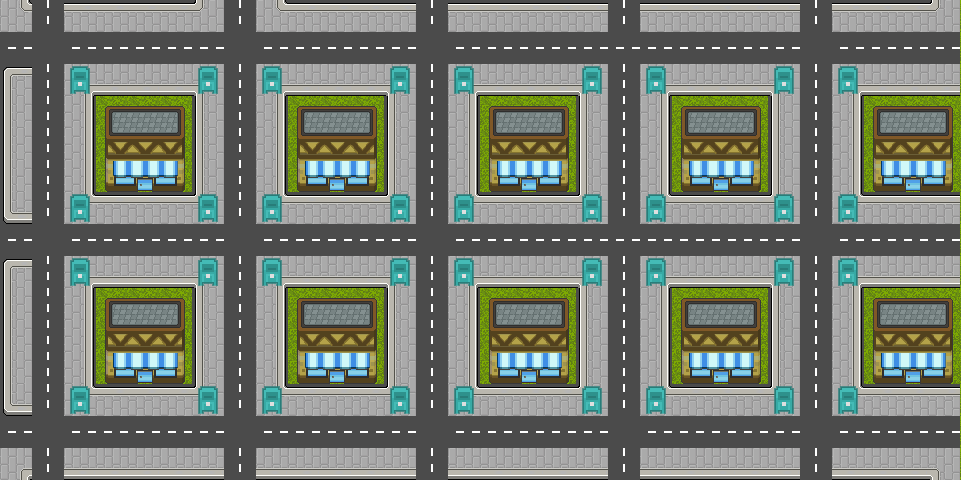
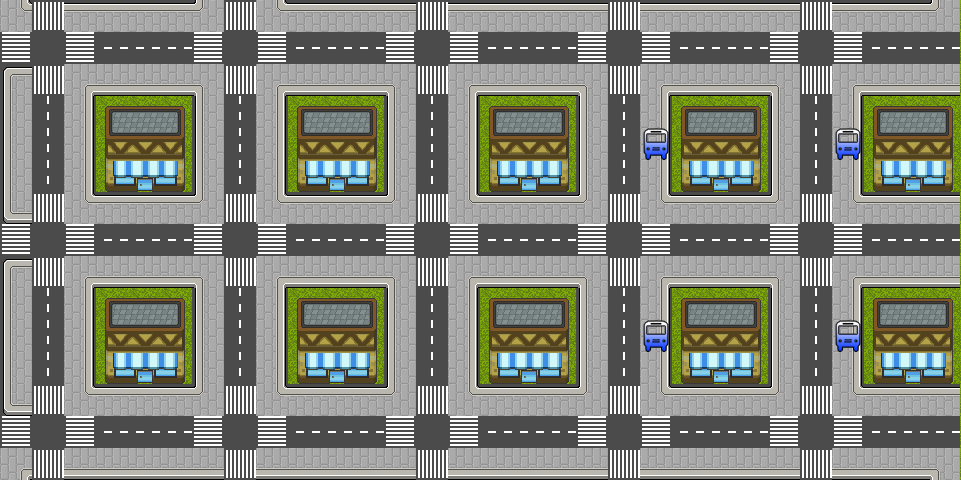
micro reqlo

diff --git a/src/graficos/Micro.java b/src/graficos/Micro.java
@@ -10,7 +10,7 @@ public class Micro extends TimerTask implements Constantes {
     public Laberinto laberinto;
     public Celda auto, celdaMovimiento;
     public Point p1, p2, p3, p4, a, b, c, d;
-    ArrayList<Peaton> peatones = new ArrayList<Peaton>();
+    ArrayList<Peaton> peatones = new ArrayList<>();
 
     public Micro(Laberinto laberinto, Point xp, Point yp) {
         p1 = new Point(xp.x, xp.y);
@@ -26,7 +26,7 @@ public class Micro extends TimerTask implements Constantes {
         celdaMovimiento = new Celda(p1.x, p1.y, laberinto.celdas[p1.x][p1.y].tipoCelda);
         auto = new Celda(p1.x, p1.y, MICRO);
 
-        for (int i = 0; i < NUMPEATONES; i++) {
+        for (int i = 0; i < NPEATONES ; i++) {
             xp.x = xp.x - 1;
             peatones.add(new Peaton(laberinto, xp, yp));
         }
@@ -34,18 +34,15 @@ public class Micro extends TimerTask implements Constantes {
     }
 
     private void moverMicro() {
-        for (int i = 0; i < peatones.size(); i++) {
-            peatones.get(i).moverPeaton();
-        }
         if (celdaMovimiento.x == p2.x && celdaMovimiento.y < p3.y && celdaMovimiento.y >= p2.y) {
             if (noHayPersona(celdaMovimiento.x, celdaMovimiento.y + 1)) {
                 if (esParada(celdaMovimiento.x + 1, celdaMovimiento.y + 1)) {
                     if (peatones.size() <= 0) {
                         System.out.println("TODOS LOS PEATONES HAN SIDO DEJADOS");
                     } else {
-                        laberinto.repaint();
-                        laberinto.lienzoPadre.repaint();
+           
                         JOptionPane.showMessageDialog(null, "Peaton ha sido dejado en la parada");
+                        peatones.get(peatones.size() - 1).serCalle();
                         peatones.remove(peatones.get(peatones.size() - 1));
                     }
                 }
@@ -67,6 +64,7 @@ public class Micro extends TimerTask implements Constantes {
                         System.out.println("TODOS LOS PEATONES HAN SIDO DEJADOS");
                     } else {
                         JOptionPane.showMessageDialog(null, "Peaton ha sido dejado en la parada");
+                            peatones.get(peatones.size() - 1).serCalle();
                         peatones.remove(peatones.get(peatones.size() - 1));
                     }
                 }
@@ -120,6 +118,9 @@ public class Micro extends TimerTask implements Constantes {
         moverMicro();
         laberinto.lienzoPadre.repaint();
         laberinto.lienzoPadre.validate();
+        for (int i = 0; i < peatones.size(); i++) {
+            peatones.get(i).moverPeaton();
+        }
     }
 
     private boolean noHayPersona(int x, int y) {

diff --git a/src/graficos/Vehiculo.java b/src/graficos/Vehiculo.java
@@ -7,35 +7,26 @@ public class Vehiculo extends TimerTask implements Constantes {
 
     public Laberinto laberinto;
     public Celda auto, celdaMovimiento;
-    public Point p1, p2, p3, p4;
+    public int x, y;
 
-    public Vehiculo(Laberinto laberinto, Point xp, Point yp) {
-        p1 = new Point(xp.x, xp.y);
-        p2 = new Point(yp.x, xp.y);
-        p3 = new Point(yp.x, yp.y);
-        p4 = new Point(xp.x, yp.y);
+    public Vehiculo(Laberinto laberinto, int x, int y) {
         this.laberinto = laberinto;
-        celdaMovimiento = new Celda(p1.x, p1.y, laberinto.celdas[p1.x][p1.y].tipoCelda);
-        auto = new Celda(p1.x, p1.y, VEHICULO);
+        celdaMovimiento = new Celda(x, y, laberinto.celdas[x][y].tipoCelda);
+        auto = new Celda(x, y, VEHICULO);
     }
 
     private void moverVehiculo() {
-        if (celdaMovimiento.x == p2.x && celdaMovimiento.y < p3.y && celdaMovimiento.y >= p2.y) {
-            if (noHayPersona(celdaMovimiento.x, celdaMovimiento.y + 1)) {
-                moverAbajo();
-            }
-        } else if (celdaMovimiento.x >= p1.x && celdaMovimiento.y == p1.y && celdaMovimiento.x < p2.x) {
-            if (noHayPersona(celdaMovimiento.x + 1, celdaMovimiento.y)) {
-                moverDerecha();
-            }
-        } else if (celdaMovimiento.x <= p3.x && celdaMovimiento.y == p3.y && celdaMovimiento.x > p4.x) {
+        if (celdaMovimiento.x > 0) {
             if (noHayPersona(celdaMovimiento.x - 1, celdaMovimiento.y)) {
                 moverIzquierda();
             }
-        } else if (celdaMovimiento.x == p4.x && celdaMovimiento.y <= p4.y && celdaMovimiento.y >= p1.y) {
-            if (noHayPersona(celdaMovimiento.x, celdaMovimiento.y - 1)) {
-                moverArriba();
-            }
+        } else if (celdaMovimiento.x <= 0) {
+            char temp = celdaMovimiento.tipoCelda;
+            celdaMovimiento.tipoCelda = laberinto.celdas[celdaMovimiento.x][celdaMovimiento.y].tipoCelda;
+           laberinto.celdas[celdaMovimiento.x][celdaMovimiento.y].tipoCelda = temp;
+            celdaMovimiento.x = this.x;
+            celdaMovimiento.y = this.y;
+            laberinto.celdas[celdaMovimiento.x][celdaMovimiento.y].tipoCelda = VEHICULO;
         }
     }
 

diff --git a/src/graficos/Lienzo.java b/src/graficos/Lienzo.java
@@ -27,19 +27,11 @@ public class Lienzo extends Canvas implements Constantes {
     public Image imagenBuffer;
 
     public Lienzo() {
-        Point p1 = new Point(1, 1);
-        Point p2 = new Point(19, 7);
-
-        Point p3 = new Point(30, 15);
-        Point p4 = new Point(1, 1);
-
-        Point p5 = new Point(2, 1);
-        Point p6 = new Point(20, 10);
         laberinto = new Laberinto(this);
-        auto = new Vehiculo(laberinto, p1, p2);
-        auto2 = new Vehiculo(laberinto, new Point(7, 7), new Point(25, 13));
-        auto3 = new Vehiculo(laberinto, new Point(1, 7), new Point(7, 13));
-        auto4 = new Vehiculo(laberinto, new Point(6, 5), new Point(4, 4));
+//        auto = new Vehiculo(laberinto, 29, 1);
+//        auto2 = new Vehiculo(laberinto, new Point(7, 1), new Point(13, 7));
+//        auto3 = new Vehiculo(laberinto, new Point(1, 13), new Point(7, 1));
+//        auto4 = new Vehiculo(laberinto, new Point(6, 5), new Point(4, 4));
 
         micro = new Micro(laberinto, new Point(19, 1), new Point(25, 13));
         jugador = new Jugador(laberinto);
@@ -59,11 +51,11 @@ public class Lienzo extends Canvas implements Constantes {
             }
         });
         lanzadorTareas = new Timer();
-        lanzadorTareas.scheduleAtFixedRate(auto, 0, 1500);
-        lanzadorTareas.scheduleAtFixedRate(auto2, 0, 1100);
-        lanzadorTareas.scheduleAtFixedRate(auto3, 0, 1300);
-        lanzadorTareas.scheduleAtFixedRate(auto4, 0, 1300);
-    //   lanzadorTareas.scheduleAtFixedRate(micro, 0, 1100);
+    //    lanzadorTareas.scheduleAtFixedRate(auto, 0, 100);
+//        lanzadorTareas.scheduleAtFixedRate(auto2, 0, 100);
+       // lanzadorTareas.scheduleAtFixedRate(auto3, 0, 1300);
+        //lanzadorTareas.scheduleAtFixedRate(auto4, 0, 1300);
+      lanzadorTareas.scheduleAtFixedRate(micro, 0, 1100);
 //        lanzadorTareas.scheduleAtFixedRate(peaton2,0,400);
 
         jugador.inteligencia.buscar(0, 0, 26, 3);

diff --git a/src/graficos/Laberinto.java b/src/graficos/Laberinto.java
@@ -15,7 +15,7 @@ public class Laberinto extends JComponent implements Constantes {
         for (int i = 0; i < N_CELDAS_ANCHO; i++) {
             for (int j = 0; j < N_CELDAS_ALTO; j++) {
                 celdas[i][j] = new Celda(i + (i * TAMANIO_CELDA), j + (j * TAMANIO_CELDA), CAMINO);
-                celdas[i][j].nPeatones = 999;
+          //      celdas[i][j].nPeatones = 999;
             }
         }
         crearEdificio(3, 6, 3, 6);
@@ -60,12 +60,14 @@ public class Laberinto extends JComponent implements Constantes {
             celdas[i][13].tipoCelda = CALLE;
         }
 
-        celdas[20][3].tipoCelda = PORTAL;
-        celdas[20][9].tipoCelda = PORTAL;
+        for (int i = 4; i < 30; i = i + 6) {
+            celdas[i][5].tipoCelda = PORTAL;
+        }
 
-        celdas[26][3].tipoCelda = PORTAL;
-        celdas[26][9].tipoCelda = PORTAL;
-        //    celdas[26][2].tipoCelda = PORTAL;
+        for (int i = 4; i < 30; i = i + 6) {
+            celdas[i][11].tipoCelda = PORTAL;
+        }
+
 
         /*
         PASOS PEATONALES HORIZONTALES
@@ -116,7 +118,12 @@ public class Laberinto extends JComponent implements Constantes {
         insertarPeatones(14, 19, 8, 13);
         insertarPeatones(20, 25, 8, 13);
         insertarPeatones(26, 30, 8, 13);
-
+        
+        celdas[20][10].tipoCelda = PARADA;
+        celdas[20][4].tipoCelda = PARADA;
+        
+              celdas[26][10].tipoCelda = PARADA;
+        celdas[26][4].tipoCelda = PARADA;
     }
 
     @Override

diff --git a/src/graficos/Celda.java b/src/graficos/Celda.java
@@ -56,7 +56,7 @@ public class Celda extends JComponent implements Constantes {
 
     @Override
     public void update(Graphics g) {
-        g.drawString(Integer.toString(nPeatones), x + 10, y + 10);
+        //   g.drawString(Integer.toString(nPeatones), x + 10, y + 10);
         switch (tipoCelda) {
             case JUGADOR:
                 g.drawImage(spriteJugador[indexSprite], x, y, null);
@@ -94,6 +94,10 @@ public class Celda extends JComponent implements Constantes {
             case PASOPEATONAL:
                 break;
             case CUADRA:
+                g.setColor(BLUE);
+                g.fillRect(x, y, TAMANIO_CELDA, TAMANIO_CELDA);
+                break;
+            case PASAJERO:
                 g.setColor(BLUE);
                 g.fillRect(x, y, TAMANIO_CELDA, TAMANIO_CELDA);
                 break;

diff --git a/src/graficos/Peaton.java b/src/graficos/Peaton.java
@@ -38,7 +38,10 @@ public class Peaton implements Constantes {
             }
         }
     }
-
+    
+   public void serCalle(){
+         laberinto.celdas[celdaMovimiento.x][celdaMovimiento.y].tipoCelda = CALLE;
+   }
     private void moverAbajo() {
         char temp = celdaMovimiento.tipoCelda;
         celdaMovimiento.tipoCelda = laberinto.celdas[celdaMovimiento.x][celdaMovimiento.y + 1].tipoCelda;

diff --git a/src/graficos/Constantes.java b/src/graficos/Constantes.java
@@ -24,7 +24,8 @@ public interface Constantes {
     public final char MICRO = 'X';
     public final char PARADA = 'Y';
     public final char PASOPEATONAL = 'Z';
-    public final int NUMPEATONES = 1;
+    public final int NPEATONES = 10;
+    public final int PASAJERO = 'A';
     
     public final int ALFA = 150;
     public final Color COLORGRIS = new Color(192, 192, 192, ALFA);
